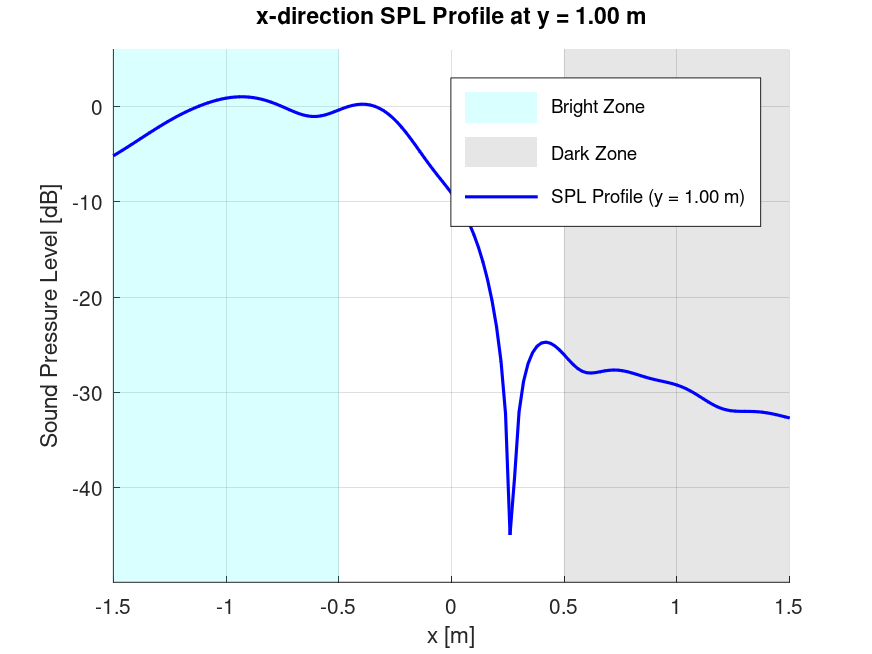
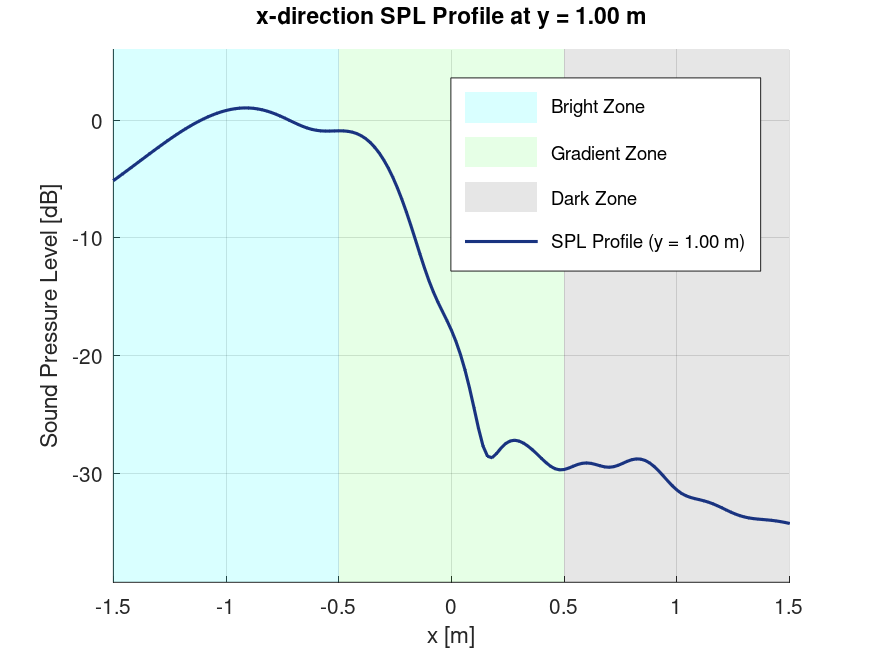
ゾーン修正・色調整

diff --git a/filter_pm.m b/filter_pm.m
@@ -1,13 +1,11 @@
 function drv_ls = filter_pm(mic_geo, G, f, ang_wave, amp_src, Nsrc, c ,num_bz)
 
     % Gのサイズ取得
-    % n_mic : 制御点(マイク)数
-    % n_sp  : スピーカ数
     s = size(G);
     n_mic = s(1);
     n_sp  = s(2);
 
-    % 周波数ビン数（G の 3 次元目に依存）
+    % 周波数ビン数
     if numel(s) >= 3
         f_len = s(3);
     else
@@ -15,69 +13,98 @@ function drv_ls = filter_pm(mic_geo, G, f, ang_wave, amp_src, Nsrc, c ,num_bz)
     end
 
     % 出力用行列
-    % 行：スピーカ
-    % 列：周波数
     drv_ls = zeros(n_sp, f_len);
+
+    %===================================================================
+    % 【重み付け設定】GZ内（-0.5〜0.5）のグラデーション仕様
+    %===================================================================
+    % 全マイクの重みを格納する列ベクトル（初期値はすべて 1.0）
+    w = ones(n_mic, 1);
+    
+    % GZエリアのマイクのインデックスを特定
+    gz_indices = (num_bz + 1):(2 * num_bz);
+    
+    % GZのマイクのx座標をすべて抽出
+    gz_x = mic_geo(gz_indices, 1);
+    
+    % 中央(x=0.0)に近づくほど重みを徐々に減らしていく
+    % x = -0.5 で重み 1.0（きっちり制御開始）
+    % x =  0.0 で重み 0.01（ほとんどサボる）
+    w_min = 0.01; 
+    
+    for i = 1:length(gz_indices)
+        idx = gz_indices(i);
+        current_x = gz_x(i);
+        
+        if current_x <= 0.0
+            % 【GZの前半: -0.5 <= x <= 0.0】
+            % x = -0.5 から 0.0 に向かって重みを直線的に減少させる
+            w(idx) = 1.0 - (1.0 - w_min) * (current_x - (-0.5)) / 0.5;
+        else
+            % 【GZの後半: 0.0 < x <= 0.5】
+            % DZと同様に完全に音を消したいため、重みは1.0（全力で制御させる）
+            w(idx) = 1.0;
+        end
+    end
+    
+    % 対角行列 W に変換
+    W = diag(w);
+    %===================================================================
 
     % 周波数ごとに処理
     for kk = 1:f_len
 
         % 現在の周波数における伝達関数行列
-        % サイズ: [マイク数 × スピーカ数]
         g = G(:,:,kk);
 
-        %--------------------------------------------------
         % 正則化パラメータの計算
-        %
-        % 最大固有値の10^-5倍
-        % 行列が悪条件になるのを防ぐ
-        %--------------------------------------------------
-        % 正則化パラメータ：最大固有値の 1e-5 倍（小行列なので eig を利用）
         reg_para = 1e-5 * max(eig(g' * g));
 
-        % 固定値を使う場合
-        % reg_para = 0.001;
-
         %--------------------------------------------------
-        % Bright Zone の目標音圧生成
-        %
-        % 平面波
-        %
-        % p(x,y)
-        % = A exp(jk(xcosθ + ysinθ))
+        % 各ゾーンの目標音圧生成（グラデーション仕様）
         %--------------------------------------------------
-
+        % ① Bright Zone の目標音圧（平面波）
         p_des_bz = amp_src .* exp( ...
             1i * (2*pi*f(kk)/c) * ...
             (mic_geo(1:num_bz,1)*cos(ang_wave) + ...
              mic_geo(1:num_bz,2)*sin(ang_wave)));
 
-        %--------------------------------------------------
-        % Dark Zone の目標音圧
-        %
-        % 音を聞こえなくしたいので0
-        %--------------------------------------------------
-        p_des_dz = zeros(n_mic - num_bz, Nsrc);
+        % ② Gradient Zone の目標音圧（目標そのものも減衰させる）
+        p_des_gz = zeros(num_bz, Nsrc); % 初期化
+        for i = 1:length(gz_indices)
+            current_x = gz_x(i);
+            
+            if current_x <= 0.0
+                % 【GZの前半: -0.5 <= x <= 0.0】
+                % x = -0.5 で減衰率 1.0（通常音量）
+                % x =  0.0 で減衰率 0.0（無音目標）
+                decay_factor = 1.0 - (current_x - (-0.5)) / 0.5;
+                
+                % 元の平面波の位相を計算
+                p_phase = exp(1i * (2*pi*f(kk)/c) * ...
+                    (current_x * cos(ang_wave) + mic_geo(gz_indices(i),2) * sin(ang_wave)));
+                
+                % 振幅を直線減衰させた値を目標音圧として格納（ドット付き演算子で安全に計算）
+                p_des_gz(i, :) = decay_factor .* amp_src .* p_phase;
+            else
+                % 【GZの後半: 0.0 < x <= 0.5】
+                % DZと同様に完全に 0 を目標にする
+                p_des_gz(i, :) = zeros(1, Nsrc);
+            end
+        end
 
-        %--------------------------------------------------
-        % 全制御点の目標音圧ベクトル
-        %
-        % 上半分 : Bright Zone
-        % 下半分 : Dark Zone
-        %--------------------------------------------------
+        % ③ Dark Zone の目標音圧（0固定）
+        p_des_dz = zeros(n_mic - 2*num_bz, Nsrc);
+
+        % 全制御点の目標音圧ベクトルを縦に結合
         p_des = [p_des_bz;
+                 p_des_gz;
                  p_des_dz];
 
         %--------------------------------------------------
-        % 最小二乗法 (Pressure Matching)
-        %
-        % d = (GᴴG + λI)^(-1) Gᴴ p_des
-        %
-        % d : スピーカ駆動信号
-        % λ : 正則化パラメータ
+        % 重み付き最小二乗法 (Weighted Pressure Matching)
         %--------------------------------------------------
-        % 正則化付き最小二乗を直接解く（逆行列を使わずに左除算を使う）
-        drv_single = (g' * g + reg_para * eye(n_sp)) \ (g' * p_des);
+        drv_single = (g' * W * g + reg_para * eye(n_sp)) \ (g' * W * p_des);
 
         % 周波数ごとの結果を保存
         drv_ls(:,kk) = drv_single;

diff --git a/pos_sp_mic.m b/pos_sp_mic.m
@@ -34,11 +34,21 @@ function [pos_sp, pos_mic, num_mic] = pos_sp_mic(num_sp, y_center, n_x, n_y, d1,
         end
     end
 
-    % DZ（右）：【Lの字型に修正しつつ、点数をBzと完全に一致させる】
-    % 縦辺（長さ d2）と底辺（長さ d1）の総延長に沿って、点数を均等に分配します。
-    % これにより角の重複もなくなり、Bzと次元が一致するためエラーが解消します。
+    %GZ（中央：-0.5 ~ 0.5）：格子状に配置
+    gz_center = [0.0, y_center]; % 中央に配置
+    pos_gz = zeros(num_bz, 2);   % 点数はBZと完全に一致させる
+    n = 0;
+    for x_idx = 1:length(bz_x)
+        for y_idx = 1:length(bz_y)
+            n = n + 1;
+            pos_gz(n,:) = [bz_x(x_idx) + gz_center(1), ...
+                        bz_y(y_idx) + gz_center(2)];
+        end
+    end
+
+    % DZ（右：0.5 ~ 1.5）：今までと同様にＬの字配列に配置
     L_total = d1 + d2; 
-    s = linspace(0, L_total, num_bz)'; % 0からL字総延長までの等間隔ベクトル
+    s = linspace(0, L_total, num_bz)'; % 点数はBZと完全に一致させる
 
     pos_dz = zeros(num_bz, 2);
     for i = 1:num_bz
@@ -53,11 +63,10 @@ function [pos_sp, pos_mic, num_mic] = pos_sp_mic(num_sp, y_center, n_x, n_y, d1,
         end
     end
     
-    % 前半がブライト（格子）、後半がダーク（L字）となるよう1つの行列に結合
-    pos_mic = [pos_bz; pos_dz];
-    % 実際に生成された総点数を main.m 側へ返す
+    % 前半＝BZ（格子）、中盤＝GZ（格子）、後半＝DZ（L字）となるよう1つの行列に結合
+    pos_mic = [pos_bz; pos_gz; pos_dz];
+    % 実際に生成された総点数（3 * num_bz）を main.m 側へ返す
     num_mic = size(pos_mic, 1);
-
 
     %% ---------------------------------------------------------------------
     %% スピーカーアレイ（音源）の座標計算
@@ -93,19 +102,48 @@ function [pos_sp, pos_mic, num_mic] = pos_sp_mic(num_sp, y_center, n_x, n_y, d1,
     %% ---------------------------------------------------------------------
     if pltPos
         figure % 新しいグラフウィンドウを開く
+        hold on; % 先に重ね描きを有効にします
+        
+        % 全マイク座標から各ゾーンの座標を正しく抽出
+        p_bz = pos_mic(1:num_bz, :);
+        p_gz = pos_mic(num_bz+1:2*num_bz, :);
+        p_dz = pos_mic(2*num_bz+1:end, :);
+        
+        % 各ゾーンのx方向の境界を取得
+        bz_x_min = min(p_bz(:,1)); bz_x_max = max(p_bz(:,1));
+        gz_x_min = min(p_gz(:,1)); gz_x_max = max(p_gz(:,1));
+        dz_x_min = min(p_dz(:,1)); dz_x_max = max(p_dz(:,1));
+        
+        % Y軸の塗りつぶし範囲（マイクの上下に適度な余白を持たせる）
+        y_min_plot = min(pos_mic(:,2)) - 0.2;
+        y_max_plot = max(pos_mic(:,2)) + 0.2;
+        
+        % 1. BZの領域をシアンで薄く塗りつぶす
+        patch([bz_x_min bz_x_max bz_x_max bz_x_min], ...
+              [y_min_plot y_min_plot y_max_plot y_max_plot], ...
+              'c', 'FaceAlpha', 0.15, 'EdgeColor', 'none', 'DisplayName', 'Bright Zone');
+          
+        % 2. GZの領域を緑で薄く塗りつぶす
+        patch([gz_x_min gz_x_max gz_x_max gz_x_min], ...
+              [y_min_plot y_min_plot y_max_plot y_max_plot], ...
+              'g', 'FaceAlpha', 0.1, 'EdgeColor', 'none', 'DisplayName', 'Gradient Zone');
+          
+        % 3. DZの領域をグレーで薄く塗りつぶす
+        patch([dz_x_min dz_x_max dz_x_max dz_x_min], ...
+              [y_min_plot y_min_plot y_max_plot y_max_plot], ...
+              'k', 'FaceAlpha', 0.1, 'EdgeColor', 'none', 'DisplayName', 'Dark Zone');
         
         % スピーカー位置を黒い「▲」でプロット
         h1 = plot(pos_sp(:,1), pos_sp(:,2), '^k', 'MarkerFaceColor', 'k' , 'MarkerSize', 4); hold on;
         % 制御点をサイズ10の「●」でプロット
-        h2 = scatter(pos_mic(:,1), pos_mic(:,2), 4, 'filled');
+        h2 = scatter(pos_mic(:,1), pos_mic(:,2), 4,[0, 0, 0.5], 'filled');
         
         daspect([1 1 1])    % グラフの縦横比を 1:1 に固定
         xlim([-1.5,1.5 ])   % x軸の表示範囲を -1.5m 〜 1.5m に設定
         ylim([0, 2])        % y軸の表示範囲を 0m 〜 2m に設定
-        grid on;            % グリッド線を表示
         
         xlabel("x[m]"); ylabel("y[m]"); % 軸ラベルの設定
-        legend({"sp", "mic"});           % 凡例の表示
+        legend([h1, h2], {"sp", "mic"});      % 凡例の表示
         
         % 設定条件を自動的に組み込んだ保存用ファイル名を作成
         filename = sprintf("plc_sp_%d_mic_%d_zone-h_%.2fm_zone-dis_%.2fm.png", ...

diff --git a/spl_distribution.m b/spl_distribution.m
@@ -36,9 +36,10 @@ p_t_dB = 10 * log10(sum(abs(p_t).^2, 2));
 %% -------------------------------------------------------------------------
 %% 3. グラフに描画する各ゾーンの「四角い枠線」のコーナー座標計算
 %% -------------------------------------------------------------------------
-% マイクの座標から、ブライトゾーンとダークゾーンのそれぞれの位置を抽出
-pos_bz = pos_mic(1:num_bz, :);       % 前半：ブライトゾーンのマイク座標
-pos_dz = pos_mic(num_bz+1:end, :);  % 後半：ダークゾーンのマイク座標
+% マイクの座標から、各ゾーンのそれぞれの位置を抽出
+pos_bz = pos_mic(1:num_bz, :);             % 前半：ブライトゾーン
+pos_gz = pos_mic(num_bz+1:2*num_bz, :);    % 中盤：グラデーションゾーン（必要に応じて）
+pos_dz = pos_mic(2*num_bz+1:end, :);       % 後半：ダークゾーン
 
 % 【ブライトゾーンを囲む四角形の5つの角（始点に戻る）の座標を特定】
 con_bz(1,:) = [min(pos_bz(:,1)), min(pos_bz(:,2))]; % 左下
@@ -46,6 +47,13 @@ con_bz(2,:) = [min(pos_bz(:,1)), max(pos_bz(:,2))]; % 左上
 con_bz(3,:) = [max(pos_bz(:,1)), max(pos_bz(:,2))]; % 右上
 con_bz(4,:) = [max(pos_bz(:,1)), min(pos_bz(:,2))]; % 右下
 con_bz(5,:) = con_bz(1,:);                          % 左下（枠を閉じる）
+
+% 【グラデーションゾーンを囲む四角形の5つの角の座標を特定】
+con_gz(1,:) = [min(pos_gz(:,1)), min(pos_gz(:,2))]; % 左下
+con_gz(2,:) = [min(pos_gz(:,1)), max(pos_gz(:,2))]; % 左上
+con_gz(3,:) = [max(pos_gz(:,1)), max(pos_gz(:,2))]; % 右上
+con_gz(4,:) = [max(pos_gz(:,1)), min(pos_gz(:,2))]; % 右下
+con_gz(5,:) = con_gz(1,:);                          % 左下（枠を閉じる）
 
 % 【ダークゾーンを囲む四角形の5つの角の座標を特定】
 con_dz(1,:) = [min(pos_dz(:,1)), min(pos_dz(:,2))]; % 左下

diff --git a/plot_spl_profile.m b/plot_spl_profile.m
@@ -18,6 +18,8 @@ figure;
 % BZとDZのx方向の境界を取得 (すでに計算済みの con_bz, con_dz を再利用)
 bz_x_min = min(con_bz(:,1));
 bz_x_max = max(con_bz(:,1));
+gz_x_min = min(con_gz(:,1));
+gz_x_max = max(con_gz(:,1));
 dz_x_min = min(con_dz(:,1));
 dz_x_max = max(con_dz(:,1));
 
@@ -31,13 +33,18 @@ patch([bz_x_min bz_x_max bz_x_max bz_x_min], ...
       'c', 'FaceAlpha', 0.15, 'EdgeColor', 'none', 'DisplayName', 'Bright Zone');
 hold on;
 
-% 2. DZの領域をグレーで薄く塗りつぶす (補助色付け)
+% 2. GZの領域を緑で薄く塗りつぶす (補助色付け)
+patch([gz_x_min gz_x_max gz_x_max gz_x_min], ...
+      [y_min_plot y_min_plot y_max_plot y_max_plot], ...
+      'g', 'FaceAlpha', 0.1, 'EdgeColor', 'none', 'DisplayName', 'Gradient Zone');
+
+% 3. DZの領域をグレーで薄く塗りつぶす (補助色付け)
 patch([dz_x_min dz_x_max dz_x_max dz_x_min], ...
       [y_min_plot y_min_plot y_max_plot y_max_plot], ...
       'k', 'FaceAlpha', 0.1, 'EdgeColor', 'none', 'DisplayName', 'Dark Zone');
 
-% 3. 音圧プロファイルの折れ線グラフを描画
-plot(x, spl_profile, 'b-', 'LineWidth', 1.5, ...
+% 4. 音圧プロファイルの折れ線グラフを描画
+plot(x, spl_profile, '-','Color', [0, 0, 0.5], 'LineWidth', 1.5, ...
     'DisplayName', sprintf('SPL Profile (y = %.2f m)', actual_y));
 
 % グラフの装飾設定

diff --git a/main.m b/main.m
@@ -41,7 +41,7 @@ n_y = round(d2 / itv_y) + 1;
 [pos_sp, pos_mic, num_mic] = pos_sp_mic(num_sp, y_center, n_x, n_y, d1, d2, pltPos);
 
 % Bright Zone のマイク数（pos_sp_mic が返す総マイク数の半分を BZ とする想定）
-num_bz = num_mic / 2;
+num_bz = num_mic / 3;
 
 %% -------------------------------------------------------------------------
 %% 自由空間の伝達関数計算
@@ -66,7 +66,8 @@ p_ctrl = g_ctrl * drv(:,1);
 
 % マイク群を「Bz」と「Dz」に半分ずつ分割
 p_bz = p_ctrl(1:num_bz);       % 前半：BZの音圧
-p_dz = p_ctrl(num_bz+1:end);   % 後半：Dzの音圧
+p_gz = p_ctrl(num_bz+1:2*num_bz); % 中盤：GZの音圧
+p_dz = p_ctrl(2*num_bz+1:end);   % 後半：Dzの音圧
 
 % ACの計算
 % BZの平均音響エネルギーと、DZの平均音響エネルギーの比をデシベル(dB)で算出
